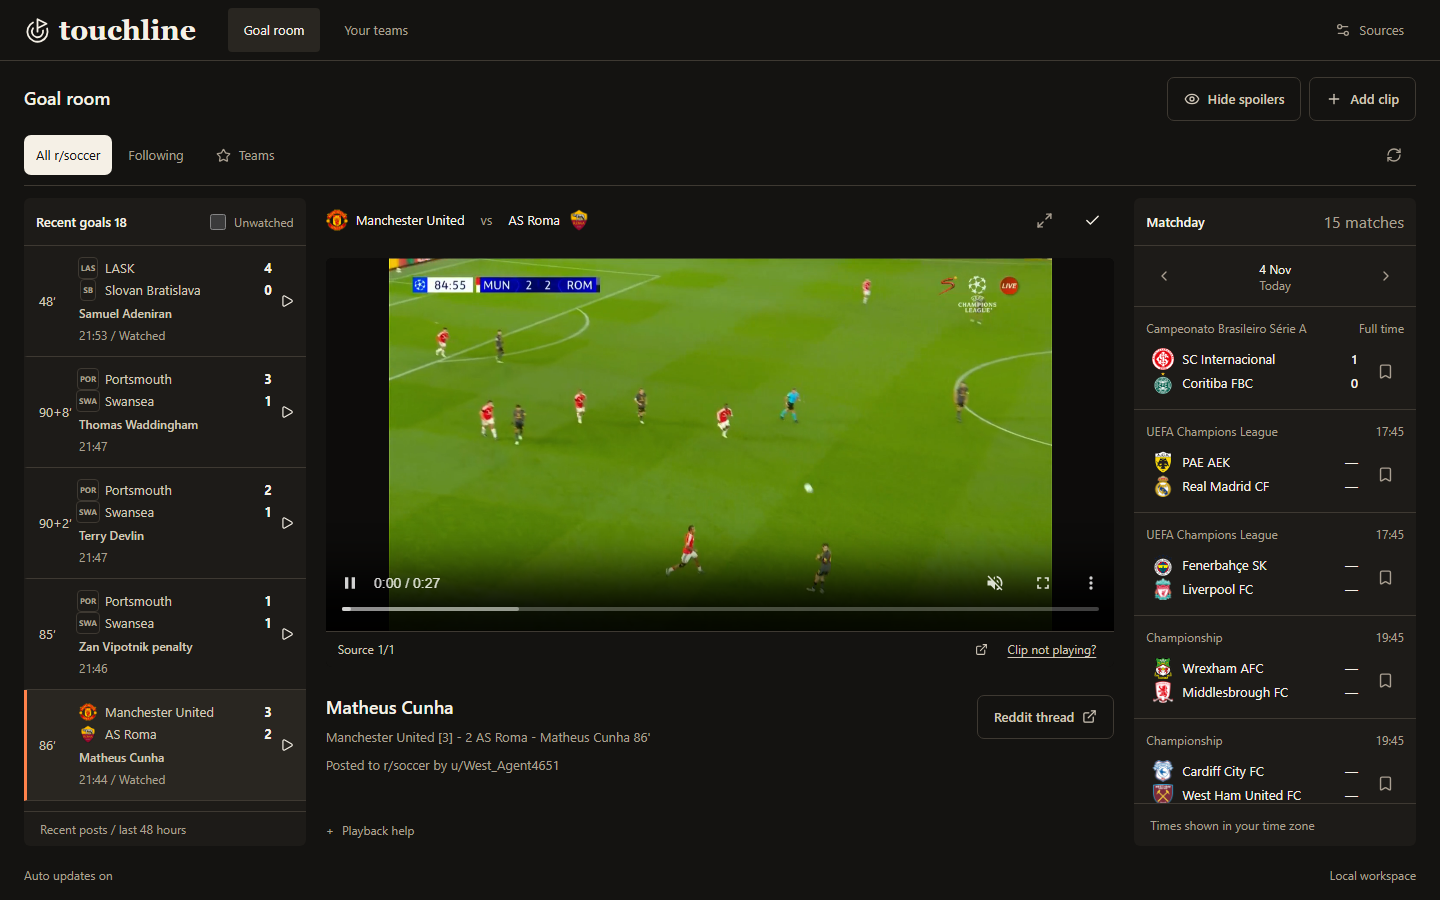
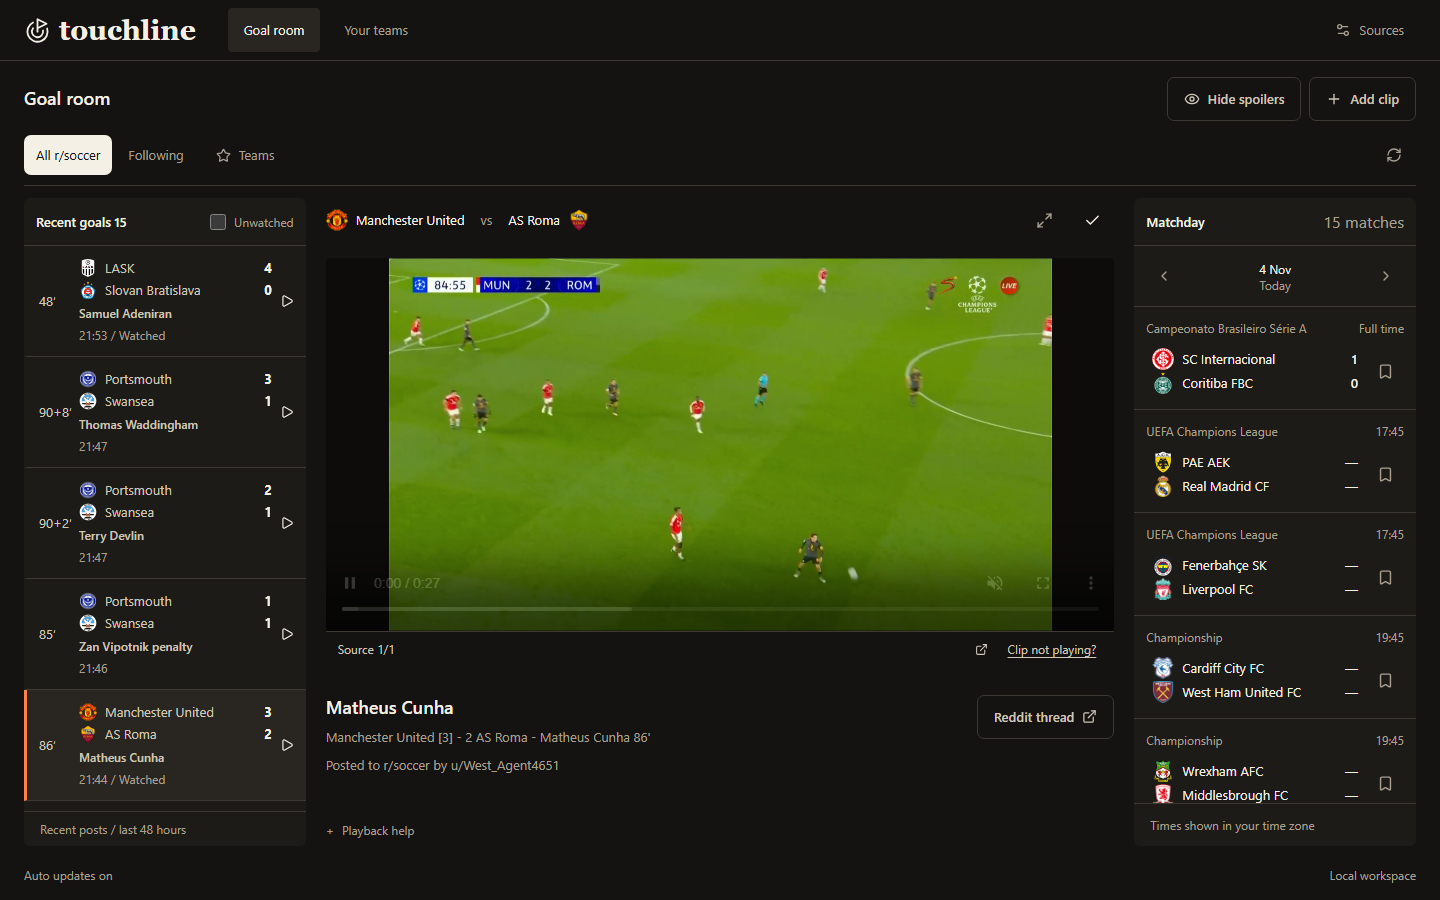
Resolve club crest aliases and recover missing image formats

diff --git a/web/src/TeamCrest.tsx b/web/src/TeamCrest.tsx
@@ -1,33 +1,6 @@
 import { useState } from "react";
 import type { Team } from "./types";
 
-// Football-data's club IDs are stable; fixtures supply crests for other clubs.
-const clubIds: Record<string, number> = {
-  benfica: 1903,
-  porto: 503,
-  sporting: 498,
-  braga: 561,
-  arsenal: 57,
-  liverpool: 64,
-  chelsea: 61,
-  "man-city": 65,
-  "man-utd": 66,
-  tottenham: 73,
-  newcastle: 67,
-  "aston-villa": 58,
-  "real-madrid": 86,
-  barcelona: 81,
-  atletico: 78,
-  psg: 524,
-  marseille: 516,
-  bayern: 5,
-  dortmund: 4,
-  leverkusen: 3,
-  inter: 108,
-  milan: 98,
-  juventus: 109,
-  napoli: 113,
-};
 export default function TeamCrest({
   team,
   src,
@@ -37,16 +10,26 @@ export default function TeamCrest({
   src?: string | null;
   large?: boolean;
 }) {
-  const url =
-    src ||
-    team?.crest ||
-    (team && clubIds[team.id]
-      ? `https://crests.football-data.org/${clubIds[team.id]}.svg`
-      : "");
-  const [failed, setFailed] = useState("");
+  const candidates = [
+    ...new Set(
+      [src, team?.crest]
+        .filter((url): url is string => !!url)
+        .flatMap((url) => {
+          const alternate =
+            /^https:\/\/crests\.football-data\.org\/\d+\.(?:png|svg)$/.test(url)
+              ? url.replace(/\.(png|svg)$/, (_, format) =>
+                  format === "png" ? ".svg" : ".png",
+                )
+              : null;
+          return alternate ? [url, alternate] : [url];
+        }),
+    ),
+  ];
+  const [failed, setFailed] = useState<string[]>([]);
+  const url = candidates.find((candidate) => !failed.includes(candidate));
   return (
     <span className={`team-crest${large ? " large" : ""}`} aria-hidden="true">
-      {url && failed !== url ? (
+      {url ? (
         <img
           src={url}
           alt=""
@@ -55,7 +38,7 @@ export default function TeamCrest({
           loading="lazy"
           decoding="async"
           referrerPolicy="no-referrer"
-          onError={() => setFailed(url)}
+          onError={() => setFailed((previous) => [...previous, url])}
         />
       ) : (
         <span className="crest-fallback">

diff --git a/web/src/style.css b/web/src/style.css
@@ -1721,7 +1721,10 @@ summary:focus-visible {
     padding-inline: 0;
   }
   .player-header .team-crest {
-    display: none;
+    display: inline-flex;
+    width: 18px;
+    height: 20px;
+    flex-basis: 18px;
   }
   .playback-tools {
     padding-inline: var(--space-xs);

diff --git a/src/Touchline.Api/Crests.cs b/src/Touchline.Api/Crests.cs
@@ -1,0 +1,41 @@
+using System.Text.RegularExpressions;
+
+namespace Touchline;
+
+public static class Crests
+{
+    private static readonly Dictionary<string, int> SeedIds = new()
+    {
+        ["benfica"] = 1903, ["porto"] = 503, ["sporting"] = 498, ["braga"] = 5613,
+        ["arsenal"] = 57, ["liverpool"] = 64, ["chelsea"] = 61, ["man-city"] = 65,
+        ["man-utd"] = 66, ["tottenham"] = 73, ["newcastle"] = 67, ["aston-villa"] = 58,
+        ["real-madrid"] = 86, ["barcelona"] = 81, ["atletico"] = 78, ["psg"] = 524,
+        ["marseille"] = 516, ["bayern"] = 5, ["dortmund"] = 4, ["leverkusen"] = 3,
+        ["inter"] = 108, ["milan"] = 98, ["juventus"] = 109, ["napoli"] = 113
+    };
+    private static readonly Dictionary<string, string> Aliases = new()
+    {
+        ["lask linz"] = "lask", ["preston"] = "preston north end",
+        ["sheffield utd"] = "sheffield united", ["west brom"] = "west bromwich albion",
+        ["derby"] = "derby county", ["swansea"] = "swansea city",
+        ["stoke"] = "stoke city", ["birmingham"] = "birmingham city",
+        ["blackburn"] = "blackburn rovers", ["norwich"] = "norwich city"
+    };
+    private static string Key(string name)
+    {
+        var known = Catalog.ByName(name);
+        if (known is not null) return known.Id;
+        var value = Regex.Replace(GoalParser.Normalize(name), @"[^\p{L}\p{N}]+", " ").Trim();
+        value = Regex.Replace(value, @"^(?:fc|afc|cf|sk|sc|fk|ac|as|pae|k)\s+|\s+(?:fc|afc|cf|sk|sc|fk|ac|as)$", "").Trim();
+        return Aliases.GetValueOrDefault(value, value);
+    }
+    public static Team[] Enrich(IEnumerable<Team> input)
+    {
+        var teams = input.ToArray();
+        var available = teams.Where(team => !string.IsNullOrWhiteSpace(team.Crest))
+            .GroupBy(team => Key(team.Name)).ToDictionary(group => group.Key, group => group.First().Crest);
+        // Resolve display assets without changing persisted club IDs or follows.
+        return teams.Select(team => team with { Crest = team.Crest ?? available.GetValueOrDefault(Key(team.Name)) ??
+            (SeedIds.TryGetValue(team.Id, out var id) ? $"https://crests.football-data.org/{id}.png" : null) }).ToArray();
+    }
+}

diff --git a/tests/Touchline.Tests/CrestTests.cs b/tests/Touchline.Tests/CrestTests.cs
@@ -1,0 +1,40 @@
+using Touchline;
+
+namespace Touchline.Tests;
+
+public class CrestTests
+{
+    [Theory]
+    [InlineData("Swansea", "Swansea City AFC")]
+    [InlineData("Portsmouth", "Portsmouth FC")]
+    [InlineData("LASK", "LASK Linz")]
+    [InlineData("Slovan Bratislava", "ŠK Slovan Bratislava")]
+    [InlineData("Preston", "Preston North End FC")]
+    [InlineData("Sheffield Utd", "Sheffield United FC")]
+    [InlineData("West Brom", "West Bromwich Albion FC")]
+    public void SharesOfficialCrestsAcrossFeedAndFixtureNames(string postName, string fixtureName)
+    {
+        var original = Catalog.FromName(postName);
+        var provider = Catalog.FromName(fixtureName) with { Crest = "https://crests.football-data.org/72.png" };
+        var resolved = Crests.Enrich([original, provider]);
+        Assert.Equal(provider.Crest, resolved[0].Crest);
+        Assert.Equal(original.Id, resolved[0].Id);
+        Assert.Equal(original.Name, resolved[0].Name);
+        Assert.Null(original.Crest);
+    }
+    [Fact]
+    public void SeedCatalogueIncludesCorrectBragaCrest()
+    {
+        var teams = Crests.Enrich(Catalog.Teams);
+        Assert.All(teams, team => Assert.NotNull(team.Crest));
+        Assert.Equal("https://crests.football-data.org/5613.png", teams.Single(team => team.Id == "braga").Crest);
+    }
+    [Fact]
+    public void DoesNotGuessByPartialClubNameOrReplaceAnExistingCrest()
+    {
+        var united = Catalog.FromName("Sheffield United FC") with { Crest = "https://crests.football-data.org/356.png" };
+        var unrelated = Catalog.FromName("United");
+        var result = Crests.Enrich([united, unrelated]);
+        Assert.Null(result[1].Crest); Assert.Equal(united.Crest, result[0].Crest);
+    }
+}

diff --git a/src/Touchline.Api/Providers.cs b/src/Touchline.Api/Providers.cs
@@ -48,7 +48,7 @@ public sealed class Providers(IHttpClientFactory clients, IConfiguration config,
             var teams = matches.Items.SelectMany(match => new[] { Catalog.FromName(match.HomeName) with { Crest = match.HomeCrest }, Catalog.FromName(match.AwayName) with { Crest = match.AwayCrest } }).Concat(Catalog.Teams)
                 .Concat(allGoals.SelectMany(goal => new[] { Catalog.FromName(goal.HomeName ?? Catalog.Find(goal.HomeId)?.Name ?? goal.HomeId), Catalog.FromName(goal.AwayName ?? Catalog.Find(goal.AwayId)?.Name ?? goal.AwayId) }))
                 .DistinctBy(team => team.Id).OrderBy(team => team.Name).ToArray();
-            return new(teams, matches.Items, allGoals,
+            return new(Crests.Enrich(teams), matches.Items, allGoals,
                 [matches.Status, clips.Status], clock.GetUtcNow(), false);
         }
         finally { gate.Release(); }

diff --git a/src/Touchline.Api/Samples.cs b/src/Touchline.Api/Samples.cs
@@ -17,6 +17,6 @@ public static class Samples
             new("sample-3", "Benfica [1]–0 FC Porto — Sample goal 18'", "benfica", "porto", 1, 0, "Sample scorer", "18", start.AddMinutes(18), "", null, [], true),
             new("sample-4", "Arsenal [1]–0 Chelsea — Sample goal 29'", "arsenal", "chelsea", 1, 0, "Sample scorer", "29", start.AddHours(-2).AddMinutes(29), "", null, [], true)
         ];
-        return new(Catalog.Teams, matches, goals, [new("Sample workspace", "sample", "Fictional fixtures and goal metadata. No footage is supplied.")], DateTimeOffset.UtcNow, true);
+        return new(Crests.Enrich(Catalog.Teams), matches, goals, [new("Sample workspace", "sample", "Fictional fixtures and goal metadata. No footage is supplied.")], DateTimeOffset.UtcNow, true);
     }
 }

diff --git a/docs/verification.md b/docs/verification.md
@@ -1,6 +1,6 @@
 # Verification
 
-Verified on 4 November 2026 with .NET 10 and TypeScript strict mode. There are 38 backend tests and seven frontend tests. API and write-enabled browser checks use isolated SQLite databases.
+Verified on 4 November 2026 with .NET 10 and TypeScript strict mode. There are 47 backend tests and seven frontend tests. API and write-enabled browser checks use isolated SQLite databases.
 
 Real football-data.org requests returned HTTP 200 and loaded 55 fixtures across the date window. Its key is stored outside the repository in local .NET user secrets. Public r/soccer RSS also returned HTTP 200, initially providing 48 parsed goals, later 27 as the 48-hour window advanced. Fixtures supplied official crests for 107 clubs; missing crests use initials. No approved Reddit OAuth account is configured. Public RSS stops on its announced retirement date, 13 November 2026.
 
@@ -15,3 +15,5 @@ New feed tests cover unknown clubs, stoppage time, attribution, stale/unrelated/
 The Hallmark streamlining pass rendered Goal room, Your teams and Sources at 1280, 1440, 1920 and phone sizes. It finished with 0 Floor failures, 0 unresolved Reflex findings and 0 open warnings. All 16 recorded links, five fields, 48 handlers and three figures were retained. The vague heading “Keep watching in the meantime” became “Your clip links”; the provider attribution label became “Football-data.org” with its URL unchanged. Setup content and playback guidance remain available in native disclosures. A copy-only recovery-test expectation follows the removal of dot-joined metadata; its source-switch assertion remains intact. Actual playback was captured in the new layout by `scripts/capture-goal-hub.mjs` without changing stored preferences.
 
 Playback recovery checks pass with controlled responses: a failed publisher lookup selects another video of the same goal; a missing native video refreshes its publisher URL once and then switches; a stalled video times out instead of buffering forever; healthy loaded frames stay mounted; all-source exhaustion offers a successful fresh retry after recovery. An unrelated goal is present in these tests and must never be selected as a backup. Embedded-host errors that cannot be inspected across origins have a working manual source switch. Source attribution, 320px viewport bounds, retry visibility and axe accessibility checks pass. Live-update retention checks were repeated against an isolated database and still pass.
+
+Crest correction: feed/fixture name aliases now share logos without changing saved team IDs. Braga uses the verified provider ID 5613. All 129 clubs in the current dashboard have crest URLs, and all 114 distinct assets returned HTTP 200. `scripts/verify-crests.mjs` verifies actual alias-club images and recovery from a controlled missing SVG to the real PNG. Mobile player crests remain visible.

diff --git a/docs/case-study.md b/docs/case-study.md
@@ -20,7 +20,7 @@ Clip metadata requests use host allowlists, bounded redirects, response limits a
 
 ## Validation
 
-The project has 38 backend tests and seven frontend tests. Browser checks cover 320–1920px layouts, favourites, spoiler reveal, persistence, offline recovery and uninterrupted playback during live updates. Controlled failures verify missing videos, stalls, expired metadata, mirror selection and exhausted-source retries. Desktop and mobile accessibility checks use axe.
+The project has 47 backend tests and seven frontend tests. Browser checks cover 320–1920px layouts, favourites, spoiler reveal, persistence, offline recovery and uninterrupted playback during live updates. Controlled failures verify missing videos, stalls, expired metadata, mirror selection and exhausted-source retries. Desktop and mobile accessibility checks use axe.
 
 The Hallmark redesign sweep captured all three screens at desktop and phone sizes. It finished with zero Floor failures and zero unresolved Reflex findings, retaining all recorded links, fields and handlers. The screenshot above was captured only after actual native video playback began; sample mode contains no footage.
 
